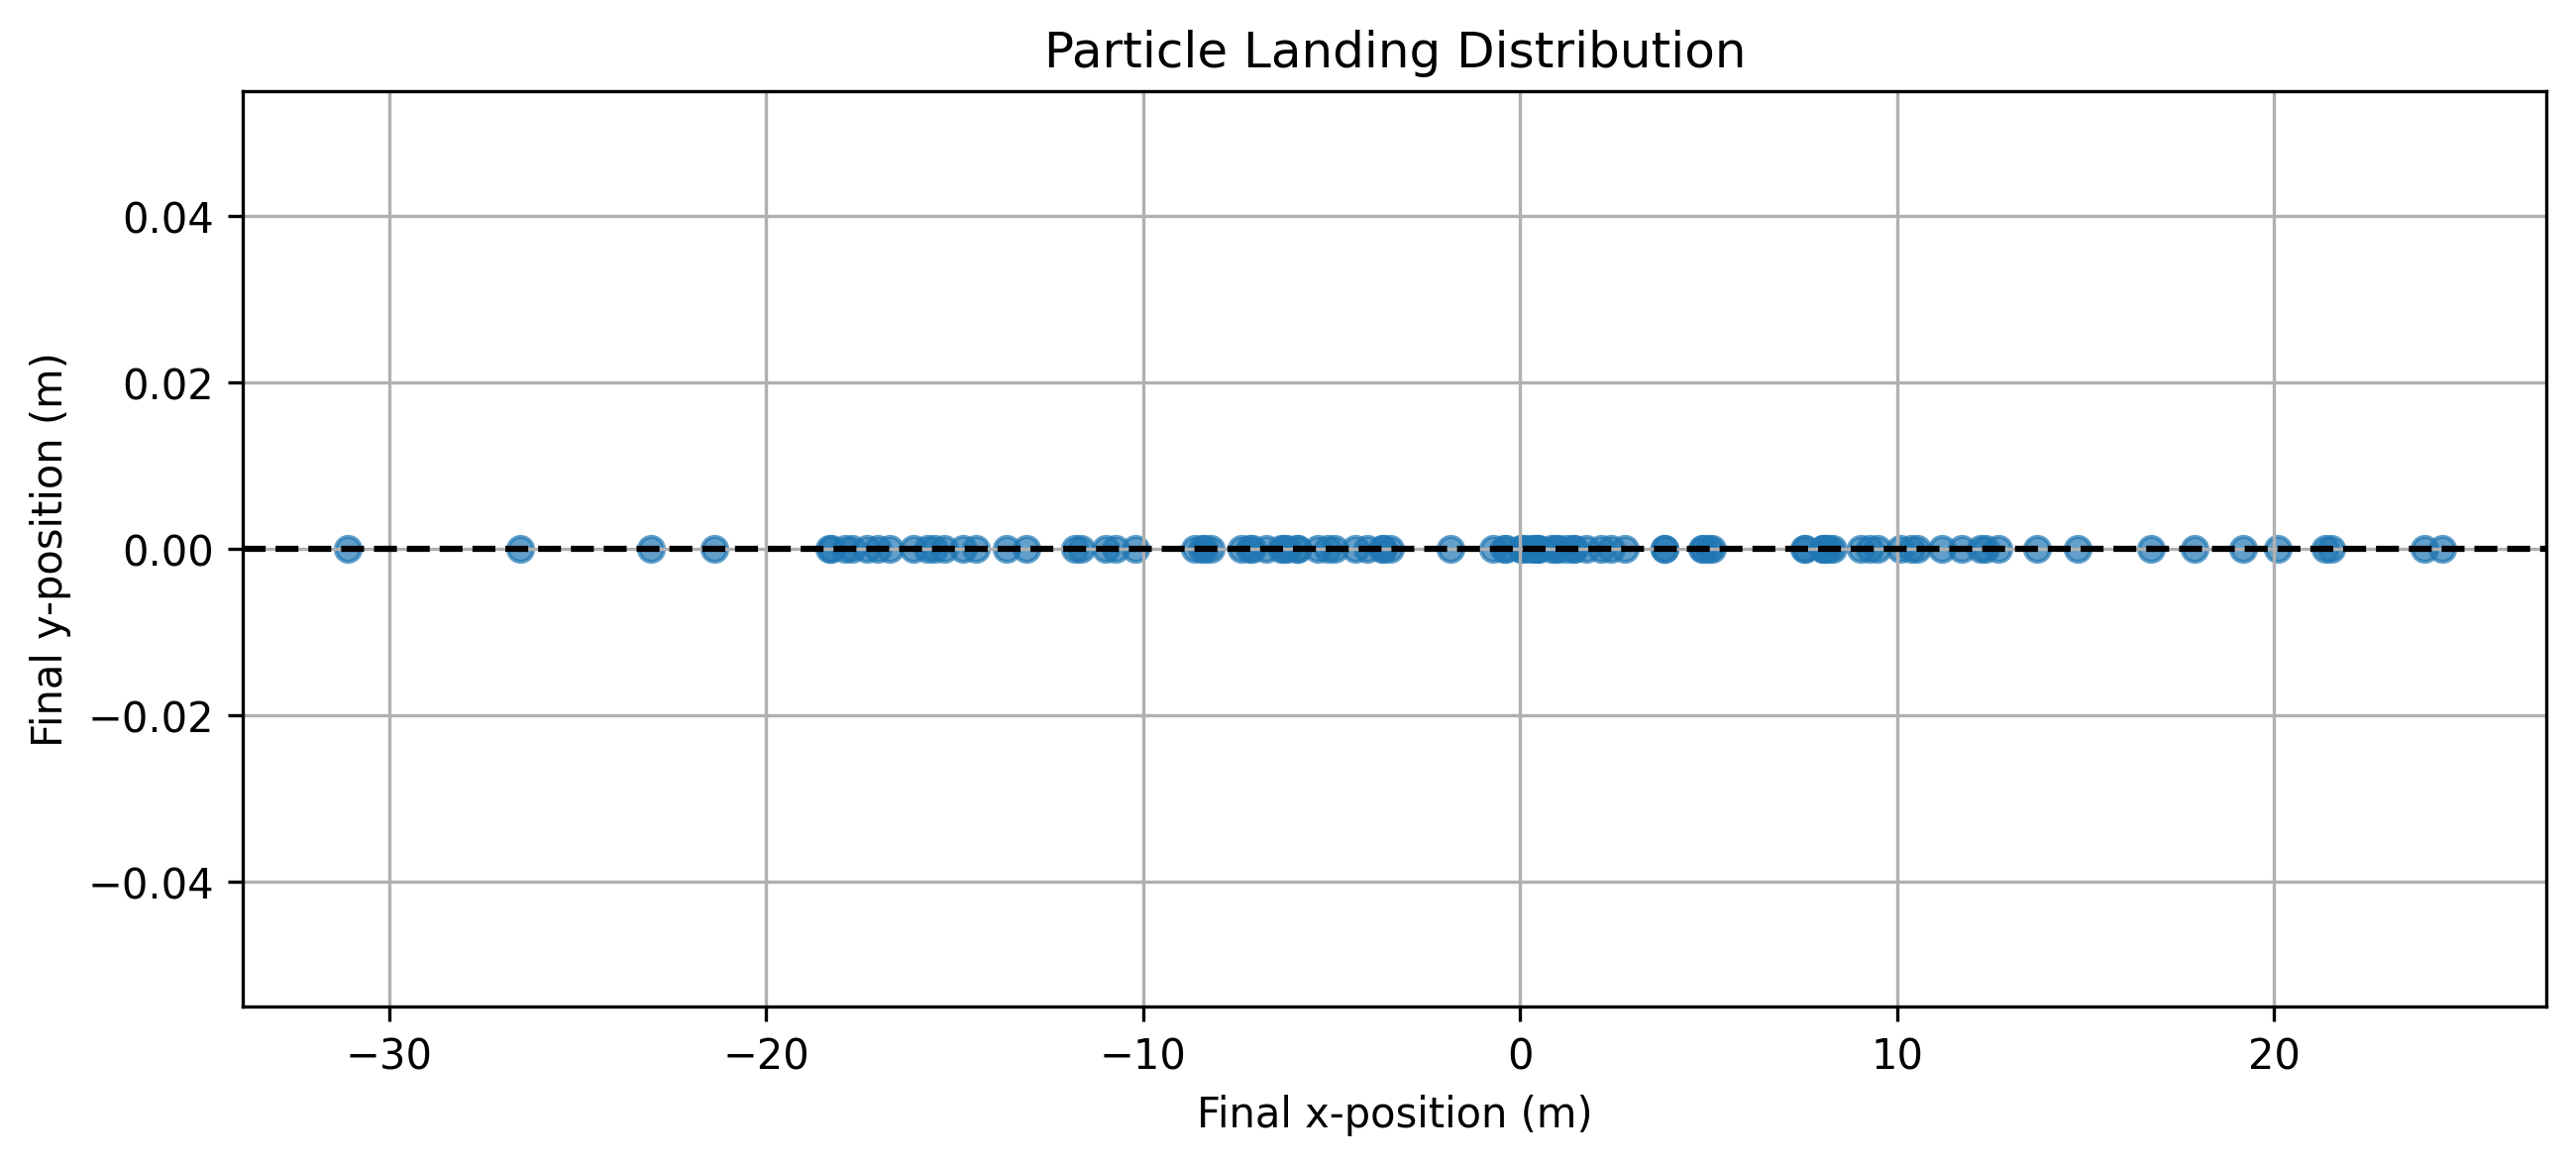
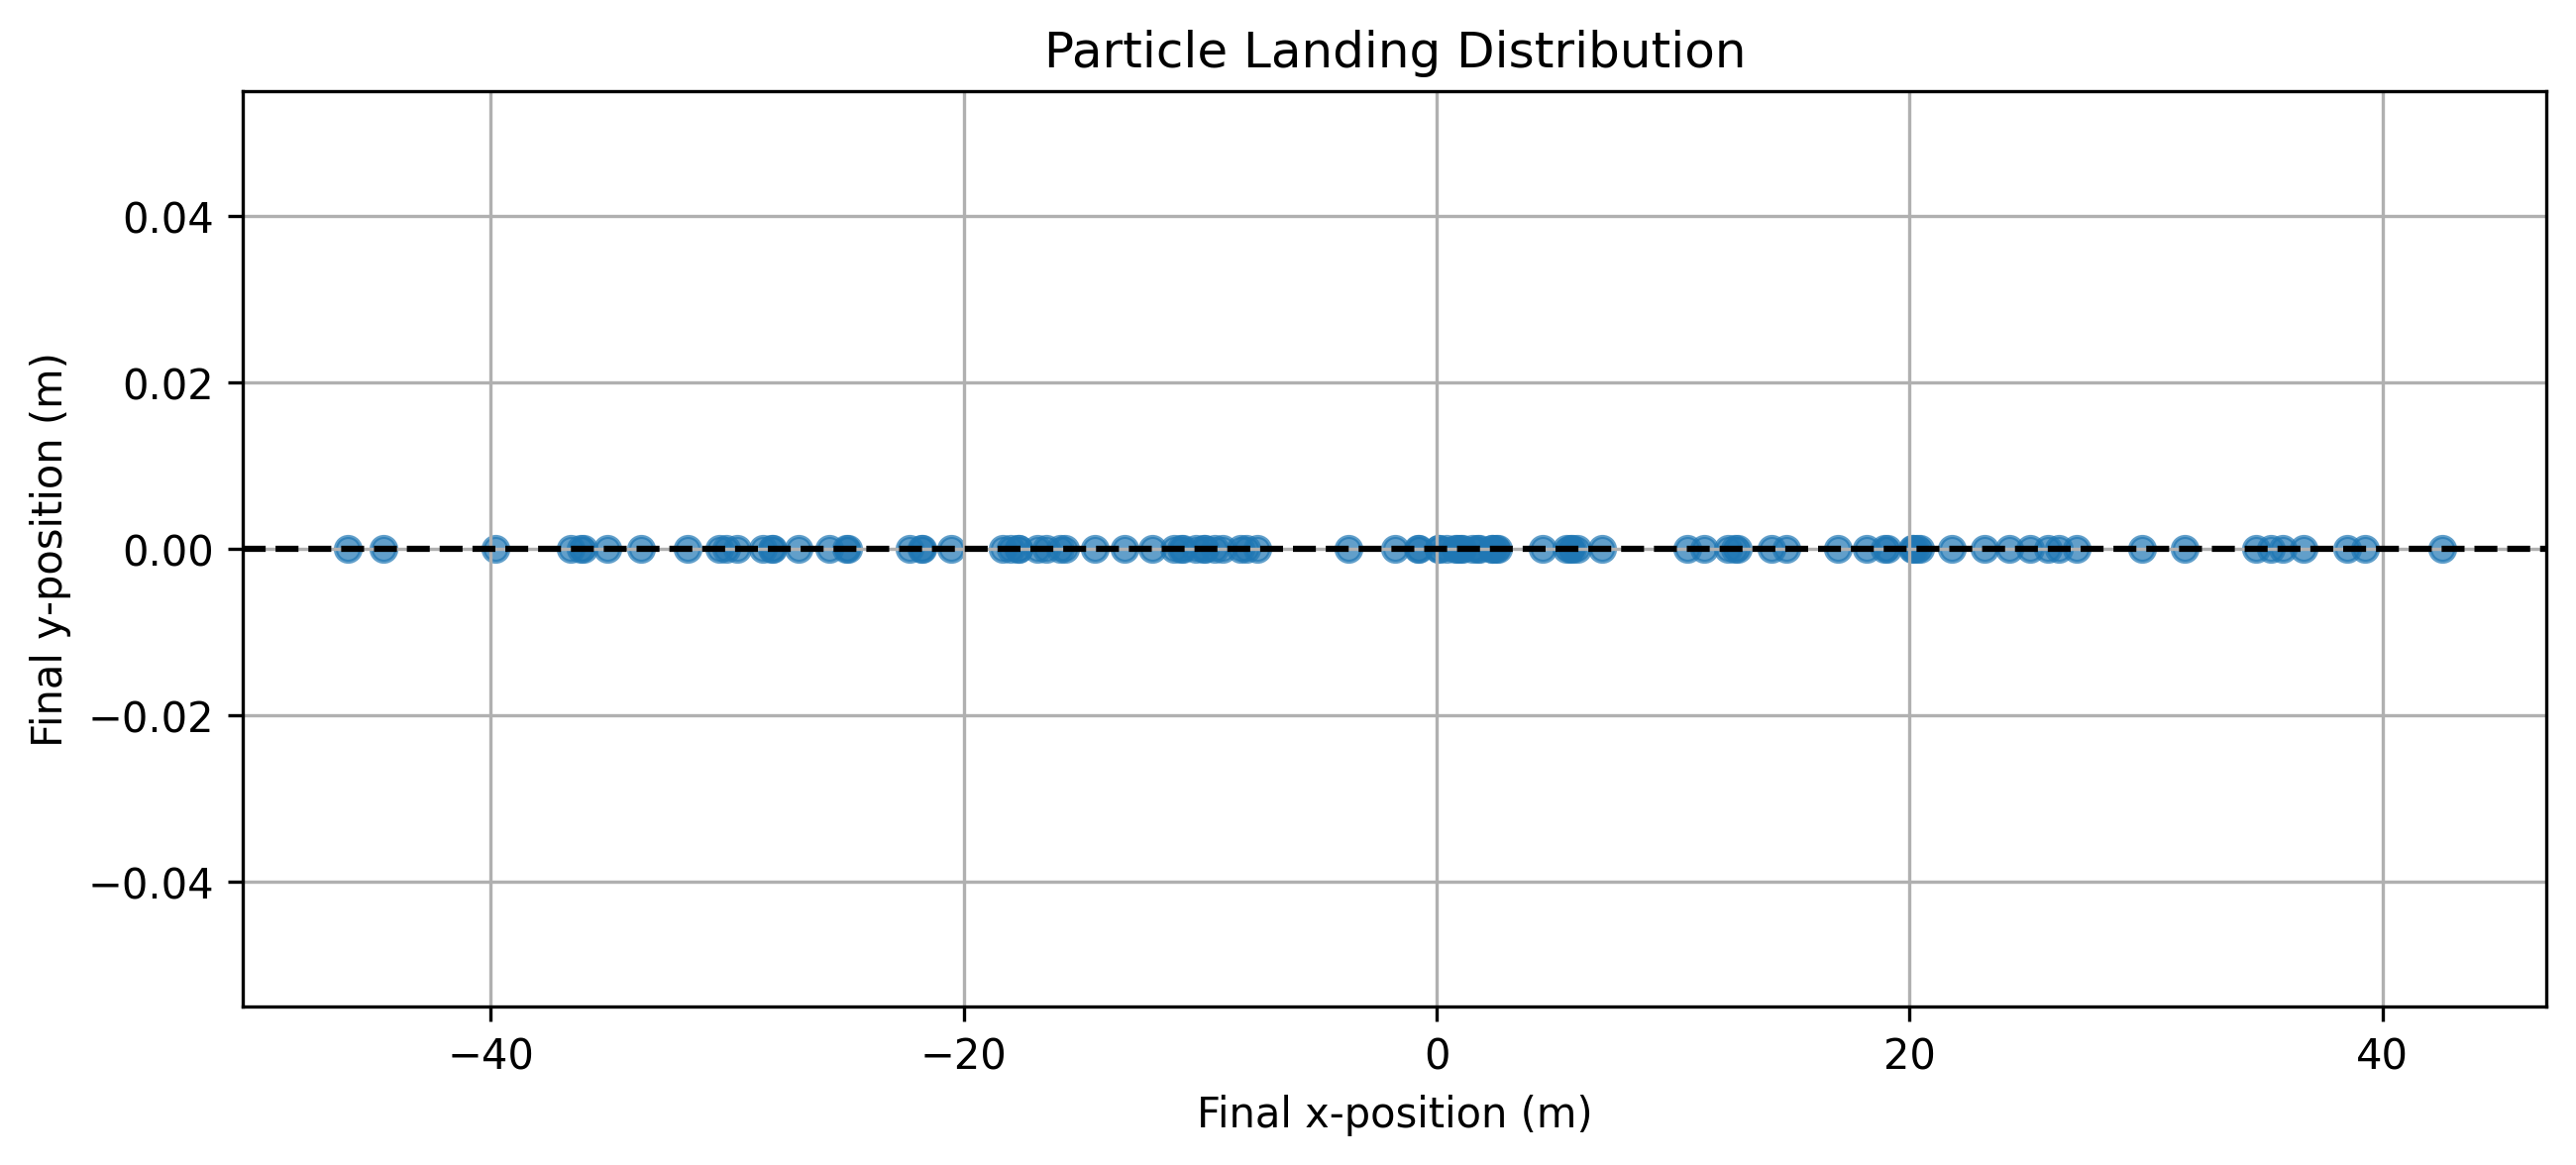
Added Nonlinear Efield

diff --git a/src/simulation.py b/src/simulation.py
@@ -7,7 +7,7 @@ Created on Thu May 14 00:50:32 2026
 
 import numpy as np
 
-from src.physics import total_a, grav_and_lorentz_force
+from src.physics import total_a, grav_and_lorentz_force, electric_field
 
 def particle_derivatives1(state, t, params):
     """
@@ -29,7 +29,8 @@ def particle_derivatives1(state, t, params):
         Dictionary containing:
             charge
             mass
-            electric_field
+            E0
+            L
 
     Returns
         np.ndarray: Time derivative of state vector:
@@ -42,7 +43,11 @@ def particle_derivatives1(state, t, params):
     # Retrieve Simulation Parameters
     charge = params["charge"]
     mass = params["mass"]
-    efield = params["efield"]
+    E0 = params['E0']
+    L = params["L"]
+    
+    #compute E field
+    efield = electric_field(y, E0, L)
 
     # Compute Acceleration
     acceleration = total_a(charge, mass, efield)
@@ -66,7 +71,11 @@ def particle_derivatives2(state, t, params):
     # Retrieve Simulation Parameters
     charge = params["charge"]
     mass = params["mass"]
-    efield = params["efield"]
+    E0 = params['E0']
+    L = params["L"]
+    
+    #compute E field
+    efield = electric_field(y, E0, L)
 
     # Compute Acceleration
     force = grav_and_lorentz_force(charge, mass, efield)

diff --git a/main.py b/main.py
@@ -5,7 +5,7 @@ Created on Thu May 14 00:50:32 2026
 @author: jessv
 """
 import numpy as np
-from src.physics import total_a, grav_and_lorentz_force
+from src.physics import total_a, grav_and_lorentz_force, electric_field
 from src.simulation import particle_derivatives1, particle_derivatives2
 from src.integrator import rk4_step
 from src.monte_carlo import particle_population_generator
@@ -23,7 +23,10 @@ ANGLE_MAX = 120 #degress
 CHARGE_MEAN = 1e-6 #Coulombs
 CHARGE_STD = 2e-7 #Coulombs
 
-EFIELD = np.array([0.0, 500.0]) #N/Coulomb
+#EFIELD = np.array([0.0, 1000.0]) #N/Coulomb
+E0 = 5000.0 #Coulombs
+L = 10.0 #m
+#EFIELD = electric_field(y, E0, L)
 
 MASS = 1e-3 #kg
 
@@ -77,7 +80,8 @@ for i in range(1, NUM_STEPS):
         
         params = {"charge": charges[particle],
                   "mass": masses[particle],
-                  "efield": EFIELD}
+                  "E0": E0,
+                  "L": L}
         
         next_state = rk4_step(particle_derivatives2, 
                               current_state, 

diff --git a/src/physics.py b/src/physics.py
@@ -59,3 +59,5 @@ def grav_and_lorentz_force(charge, mass, efield):
     ef = charge * efield
     return gf + ef
 
+def electric_field(y, E0, L):
+    return np.array([0.0,E0 * np.exp(-y / L)])